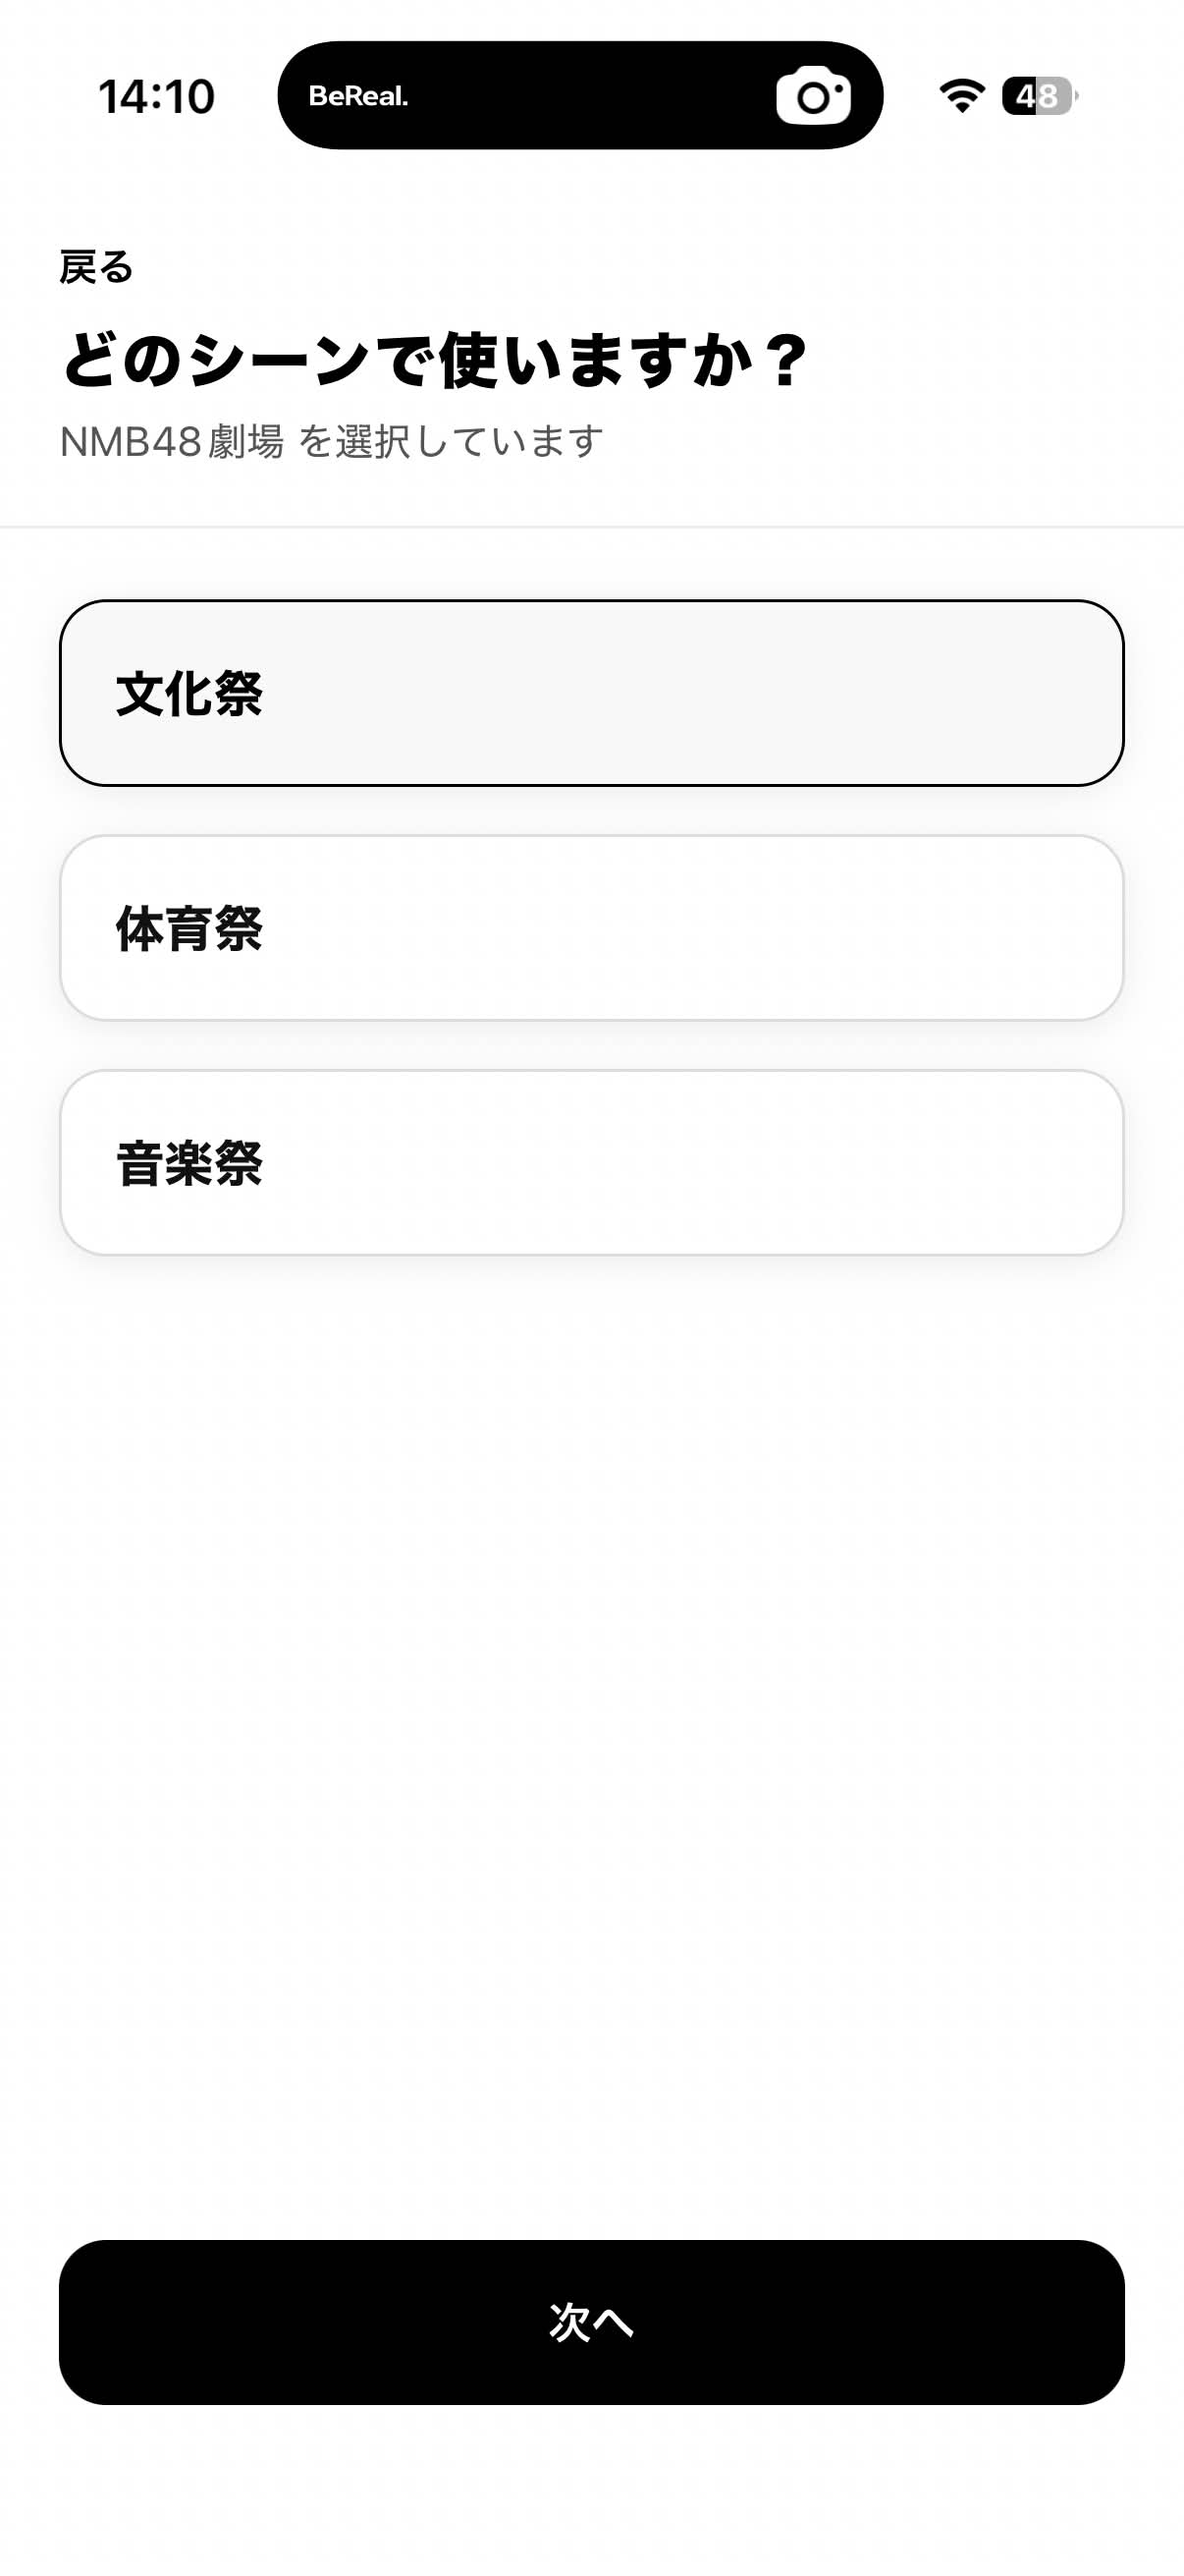
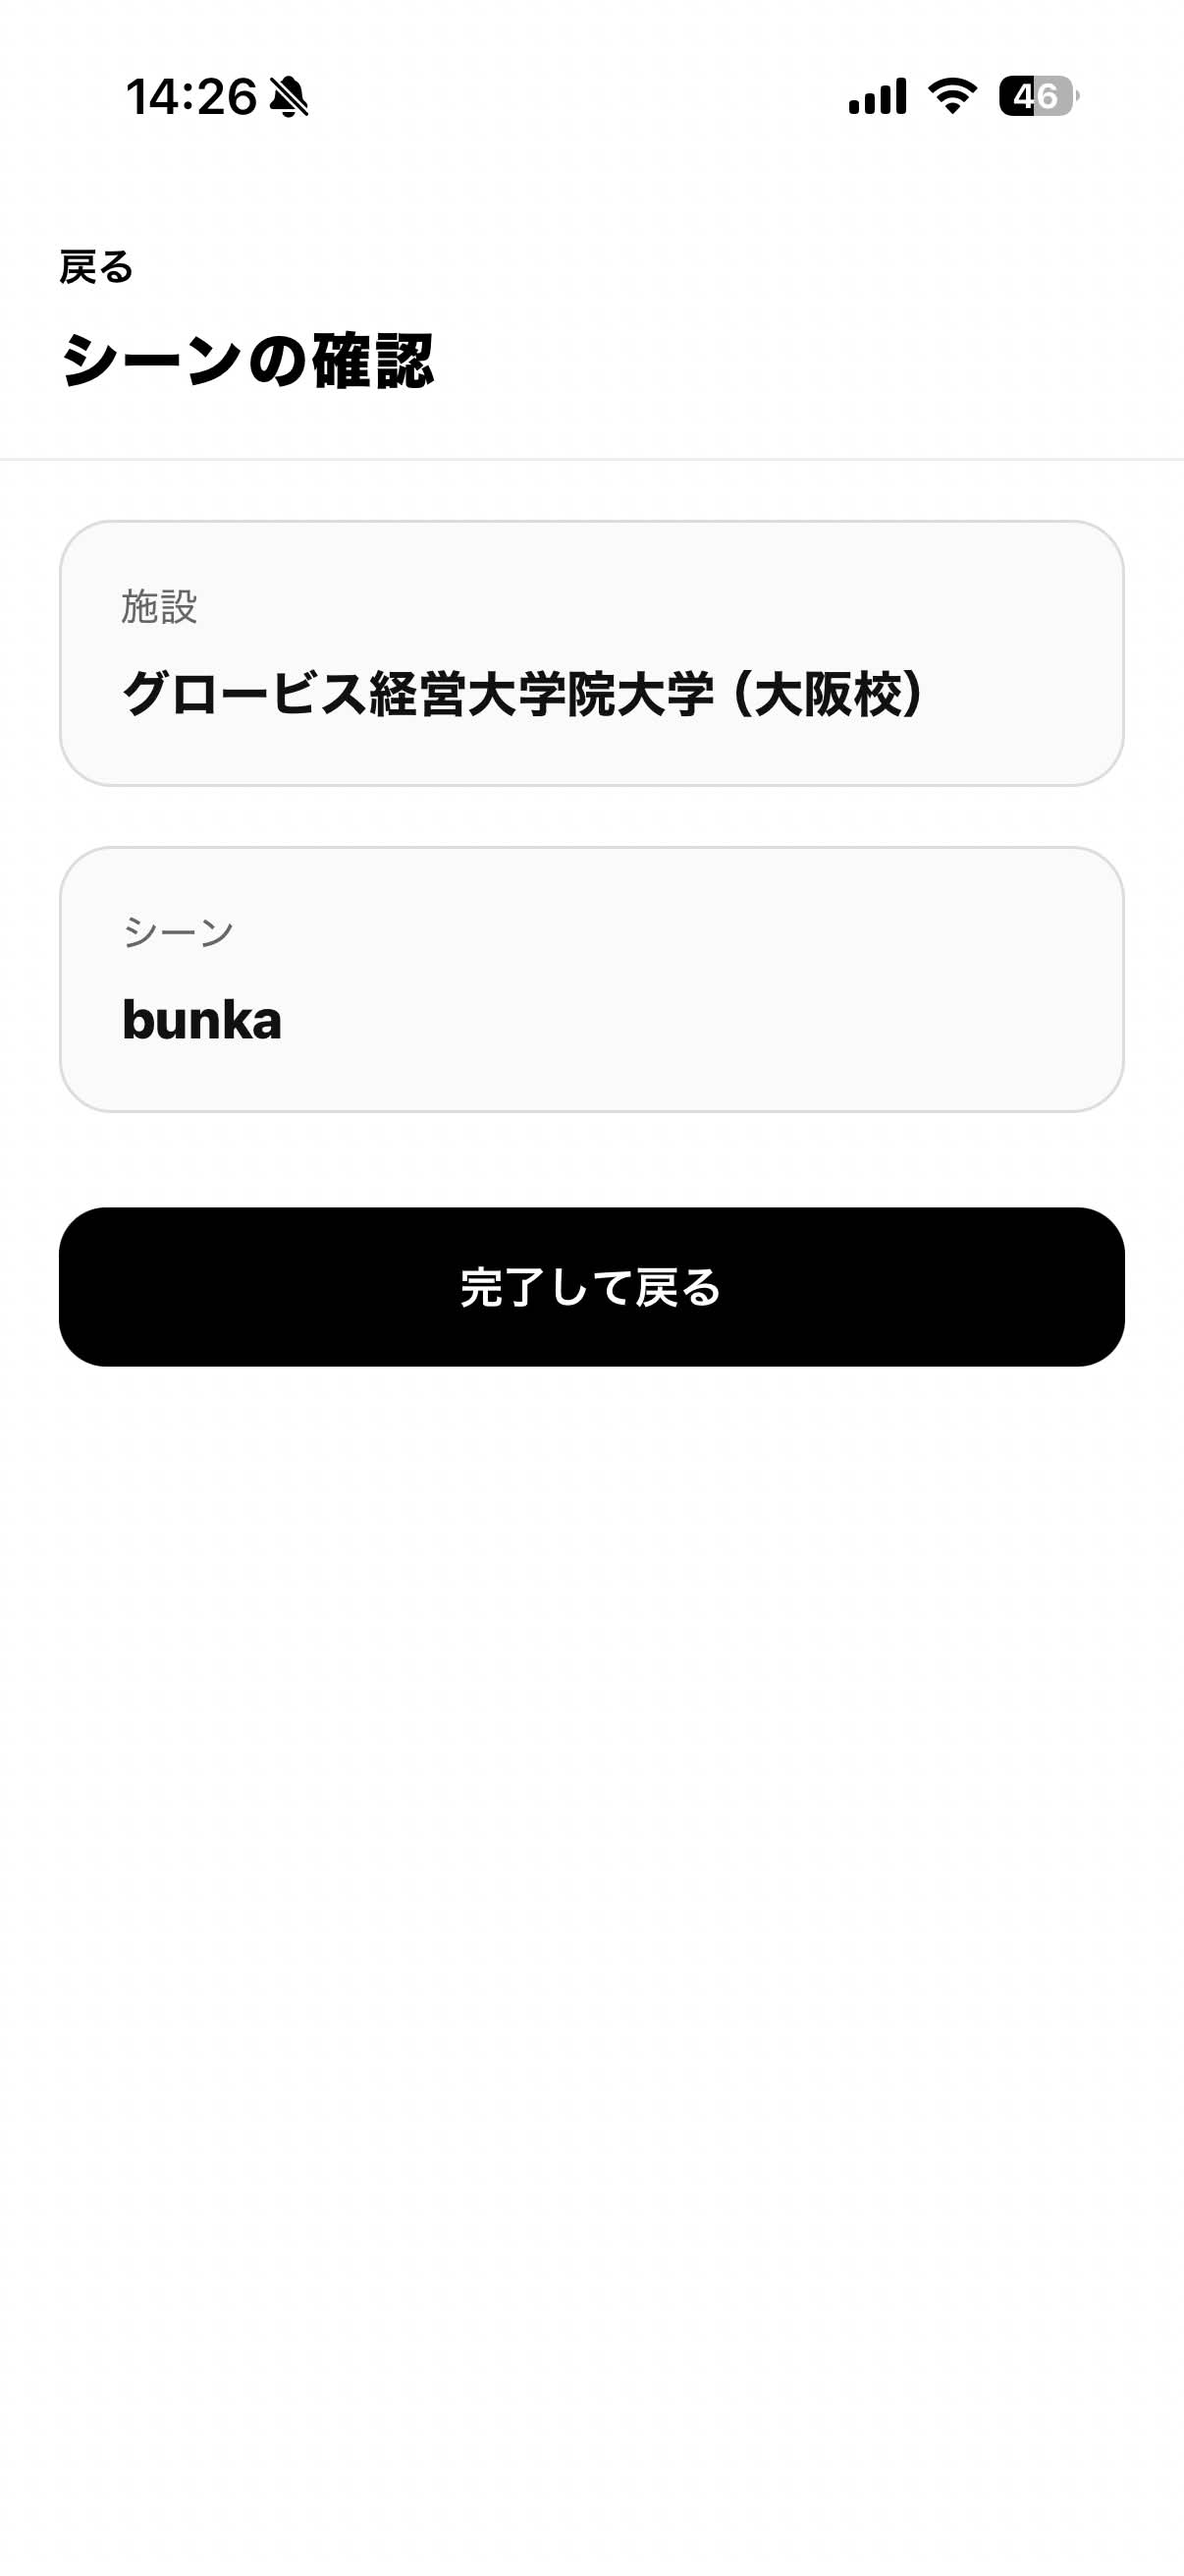
だいち

diff --git a/app/admin-scene.tsx b/app/admin-scene.tsx
@@ -50,12 +50,12 @@ export default function AdminSceneScreen() {
 
       <ScrollView contentContainerStyle={styles.content}>
         {SCENES.map((scene) => {
-          const isActive = selectedScene === scene.id;
+          const isActive = selectedScene === scene.title;
           return (
             <TouchableOpacity
               key={scene.id}
               style={[styles.card, isActive && styles.cardActive]}
-              onPress={() => setSelectedScene(scene.id)}
+              onPress={() => setSelectedScene(scene.title)}
               activeOpacity={0.85}
             >
               <Text
